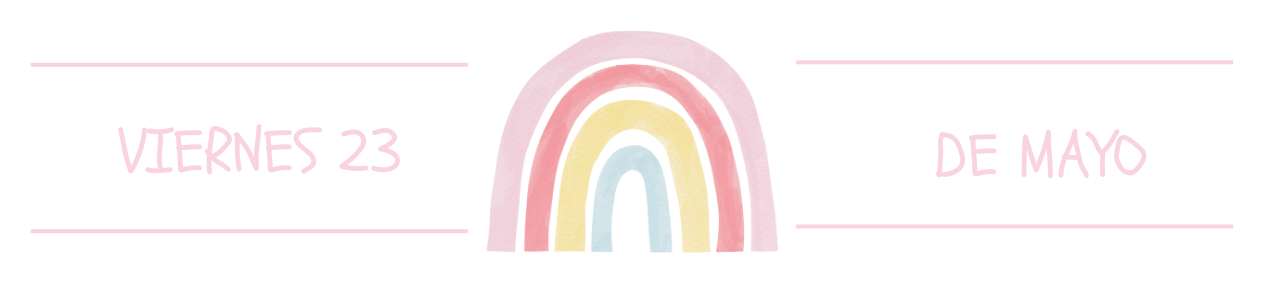
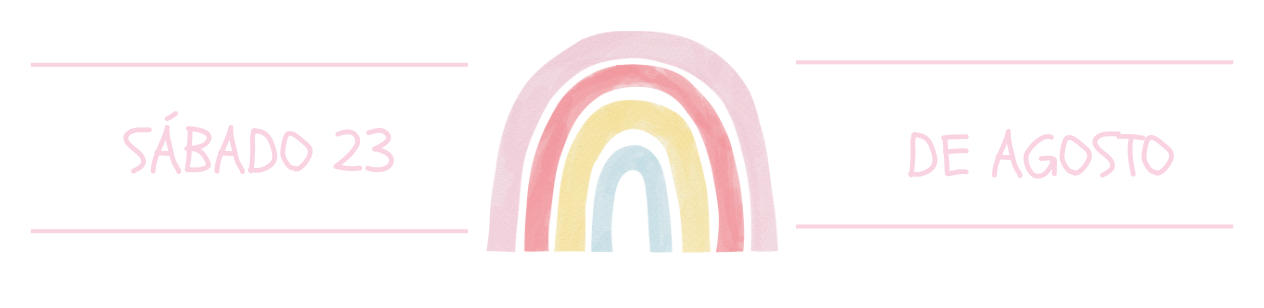
A
A

Changed region(s): [[0.7097, 0.4091, 0.9256, 0.5844], [0.0926, 0.4091, 0.3394, 0.5844], [0.1234, 0.3506, 0.1543, 0.3799]]

diff --git a/index.html b/index.html
@@ -65,7 +65,7 @@
         -->
         <div class="main-bloque">
             <img data-aos="fade-up"  src="./figuras/icon-3.png" alt="">
-            <p data-aos="fade-up" > NO OLVIDES CONFIRMAR ASISTENCIA CON MIS PAPIS ANTES DEL 22 DE MAYO.</p>
+            <p data-aos="fade-up" > NO OLVIDES CONFIRMAR ASISTENCIA CON MIS PAPIS ANTES DEL 22 DE AGOSTO.</p>
             <a  data-aos="fade-up" class="boton" target="_blank"  href="https://wa.link/ilkfdw">CONFIRMAR</a>    
         </div>
   </main>
@@ -82,7 +82,7 @@
           </div>
           <div>
             <h2 data-aos="fade-up" >Francisca</h2>
-            <H3 data-aos="fade-up">23.05.25</H3>
+            <H3 data-aos="fade-up">23.08.25</H3>
           </div>
           <div>
             <img class="espejo" src="./figuras/icon-1.png" alt="">

diff --git a/countdown.js b/countdown.js
@@ -30,4 +30,4 @@ const countdown = (deadline, elem, finalMessage ) => {
 };
 
 
-countdown('MAY 23 2025 15:00:51 GMT-0300', 'clock', 'llego el dia')
+countdown('Aug 23 2025 15:00:51 GMT-0300', 'clock', 'llego el dia')
